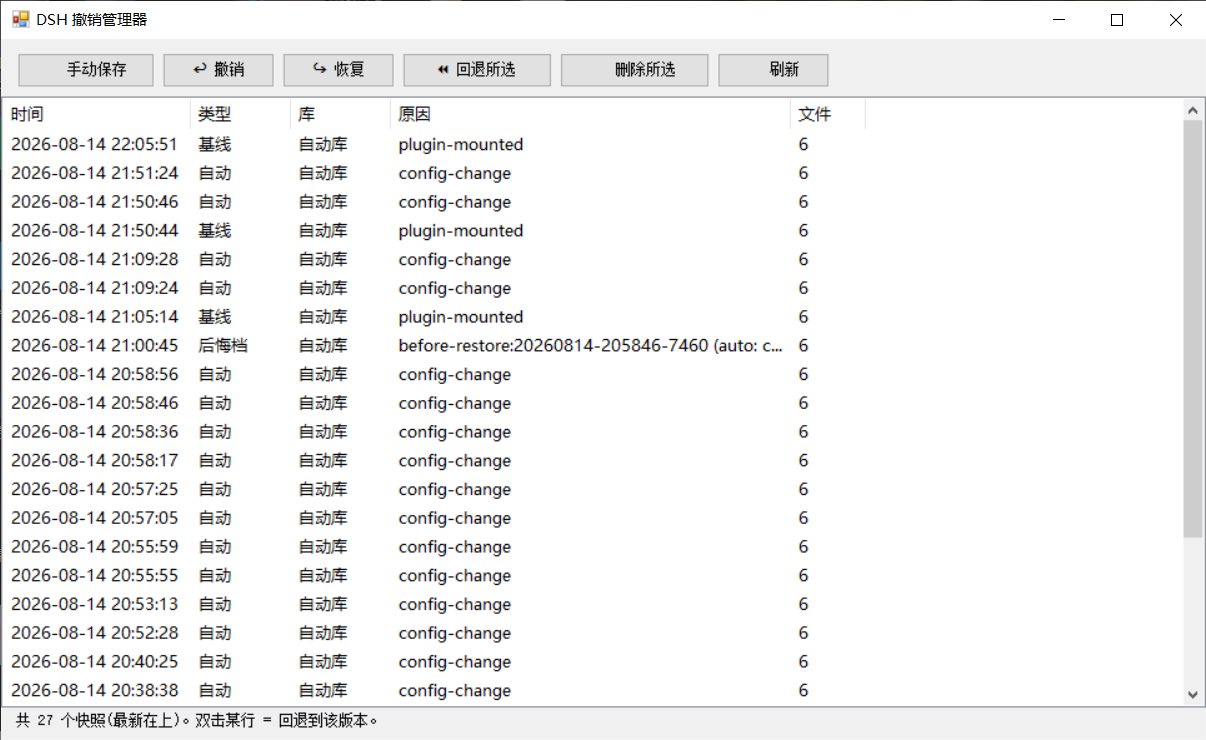
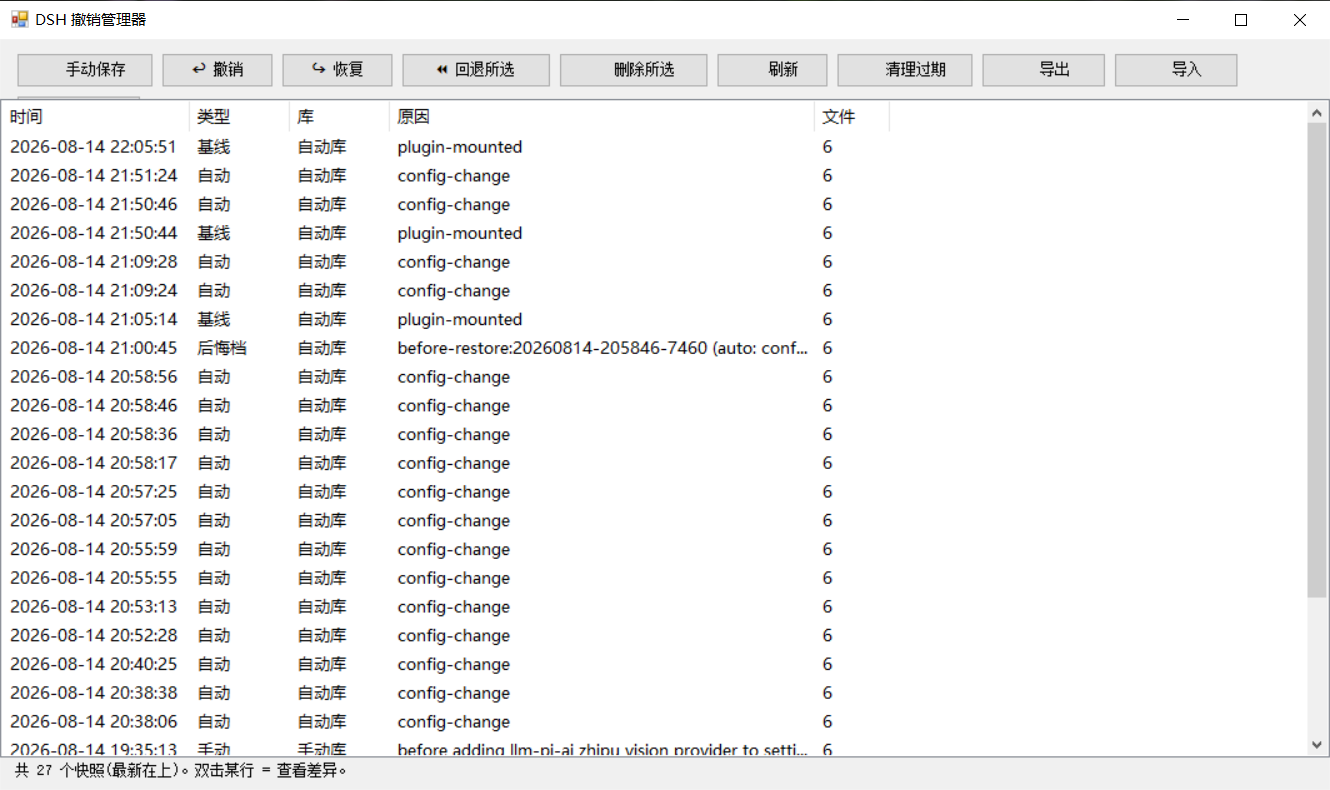
README: offline GUI v2 screenshots (main window, diff preview, tray) + feature table update

diff --git a/README.en.md b/README.en.md
@@ -12,13 +12,13 @@ An undo/rollback system for [DeepSeek Harness (DSH)](https://github.com/deepseek
 |---|---|
 | ![1](docs/1.png) | ![2](docs/2.png) |
 
-| Settings: shortcuts & snapshot options | Offline GUI (DSH Undo Manager) |
+| Settings: shortcuts & snapshot options | Offline GUI v2 (save / undo / redo / restore / delete / clean-up / export / import / settings) |
 |---|---|
 | ![3](docs/3.png) | ![4](docs/4.png) |
 
-| One-click export of all snapshots (backup / migration) |
-|---|
-| ![5](docs/5.png) |
+| One-click export of all snapshots (backup / migration) | Offline window: double-click a row to view its diff | Offline window: minimize to system tray |
+|---|---|---|
+| ![5](docs/5.png) | ![6](docs/6.png) | ![7](docs/7.png) |
 
 ## Features
 
@@ -34,7 +34,7 @@ An undo/rollback system for [DeepSeek Harness (DSH)](https://github.com/deepseek
 | **Undo/redo stack** | Multiple consecutive undos; redo re-applies the pre-undo state (blocked when newer changes exist); every restore first preserves the current state as a "pre-restore" snapshot |
 | **Crash self-check** | Detects when the previous DSH run crashed before finishing startup, warns in the snapshot list and panel, and suggests rolling back to the last good state |
 | **Export / import** | One-click ZIP export of all snapshots (backup / moving machines); import restores into the right store by kind and skips duplicates; panel buttons, chat tools and offline CLI all supported |
-| **Offline tools** | CLI (`snapshot/undo/redo/restore/remove/list/diff/prune/status`) + **GUI window** (desktop shortcut) + safe plugin-install wrapper |
[1 lines of base64/hex data omitted]
 
 ## What is snapshotted & where
 

diff --git a/README.md b/README.md
@@ -14,13 +14,13 @@
 |---|---|
 | ![1](docs/1.png) | ![2](docs/2.png) |
 
-| 设置:快捷键与快照参数 | 局外程序窗口(DSH 撤销管理器) |
+| 设置:快捷键与快照参数 | 局外程序窗口 v2(保存/撤销/恢复/回退/删除/清理/导出/导入/设置) |
 |---|---|
 | ![3](docs/3.png) | ![4](docs/4.png) |
 
-| 一键导出全部快照(可备份/迁移) |
-|---|
-| ![5](docs/5.png) |
+| 一键导出全部快照(可备份/迁移) | 局外窗口:双击快照行查看差异 | 局外窗口:最小化到系统托盘 |
+|---|---|---|
+| ![5](docs/5.png) | ![6](docs/6.png) | ![7](docs/7.png) |
 
 ## 功能一览
 
@@ -36,7 +36,7 @@
 | **撤销/重做栈** | 连续多步撤销;撤销后可重做;有新变更则阻止重做;每次撤销前先把当前状态存为"后悔档" |
 | **启动异常自检** | 上次 DSH 崩溃/被杀未正常启动时,启动后自动检测并在快照列表与面板顶部警告,引导你回退到上次正常状态 |
 | **导出/导入** | 一键把全部快照打包为 ZIP(备份/换机迁移);导入自动按类型分流、重复跳过不覆盖;面板按钮 / 对话工具 / 离线 CLI 均可 |
-| **局外工具** | CLI(`snapshot/undo/redo/restore/remove/list/diff/prune/status`)+ **程序窗口**(桌面快捷方式)+ 安全装插件包装器 |
[1 lines of base64/hex data omitted]
 
 ## 快照内容与存储
 
